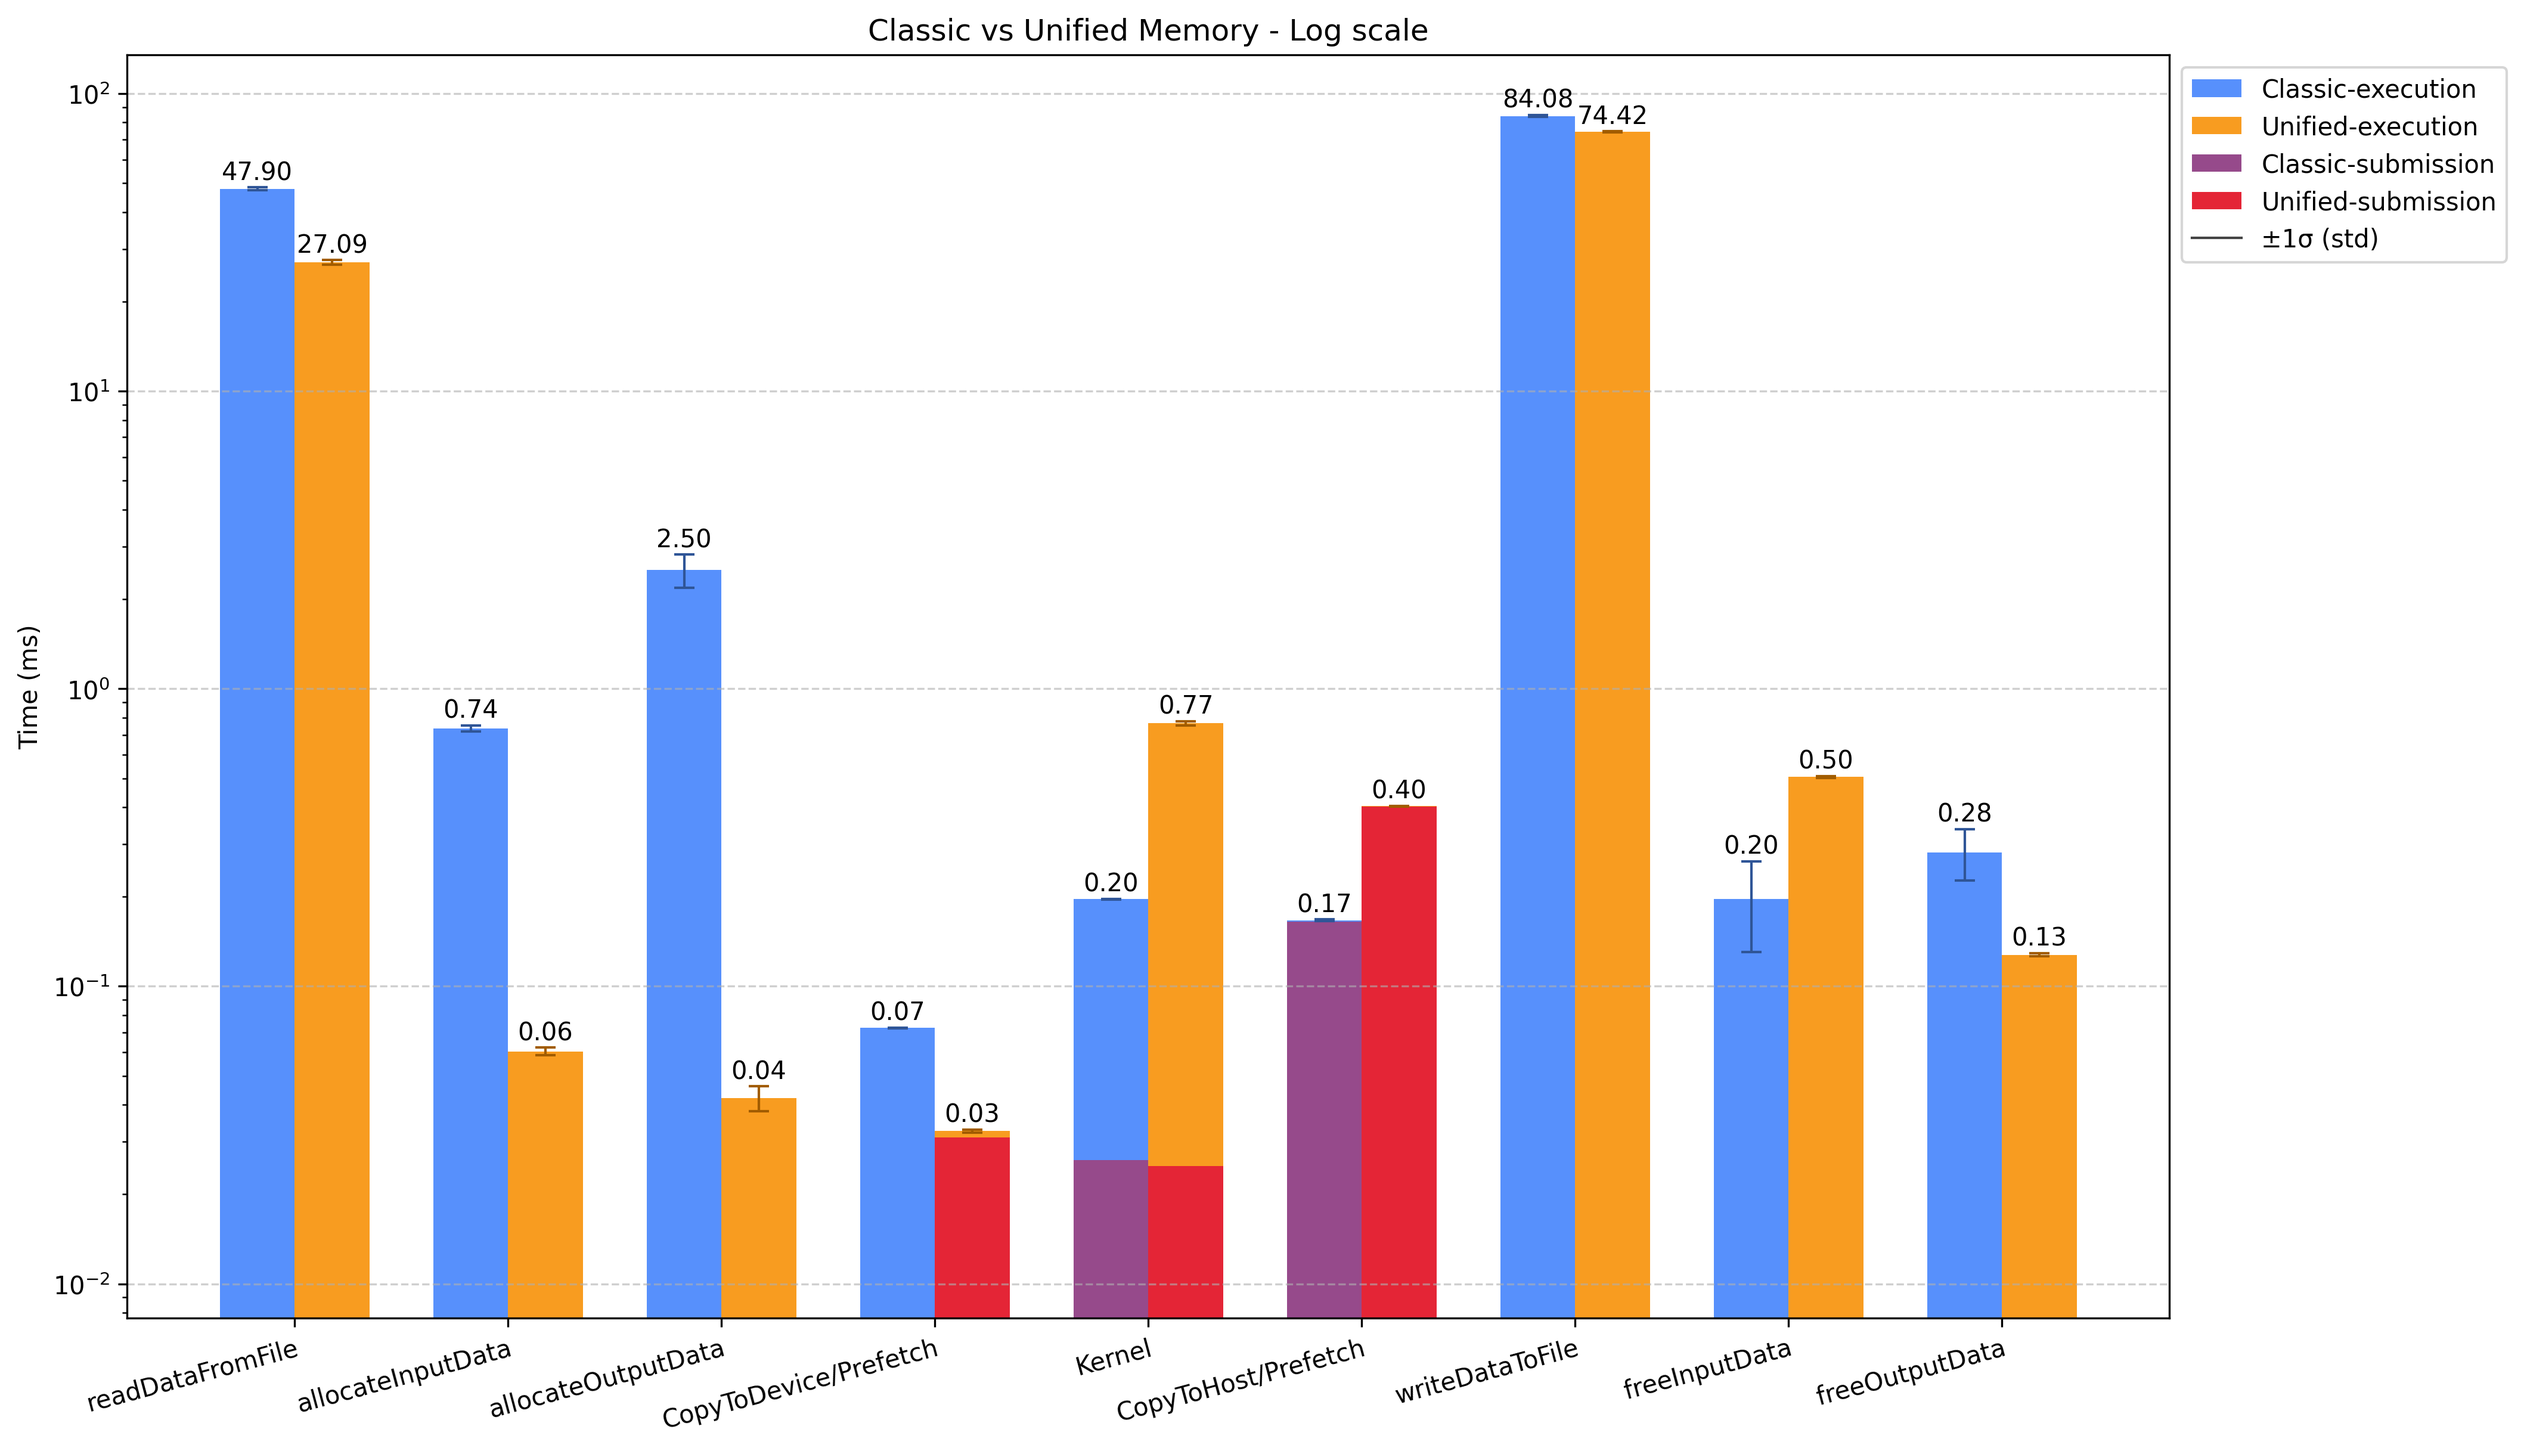
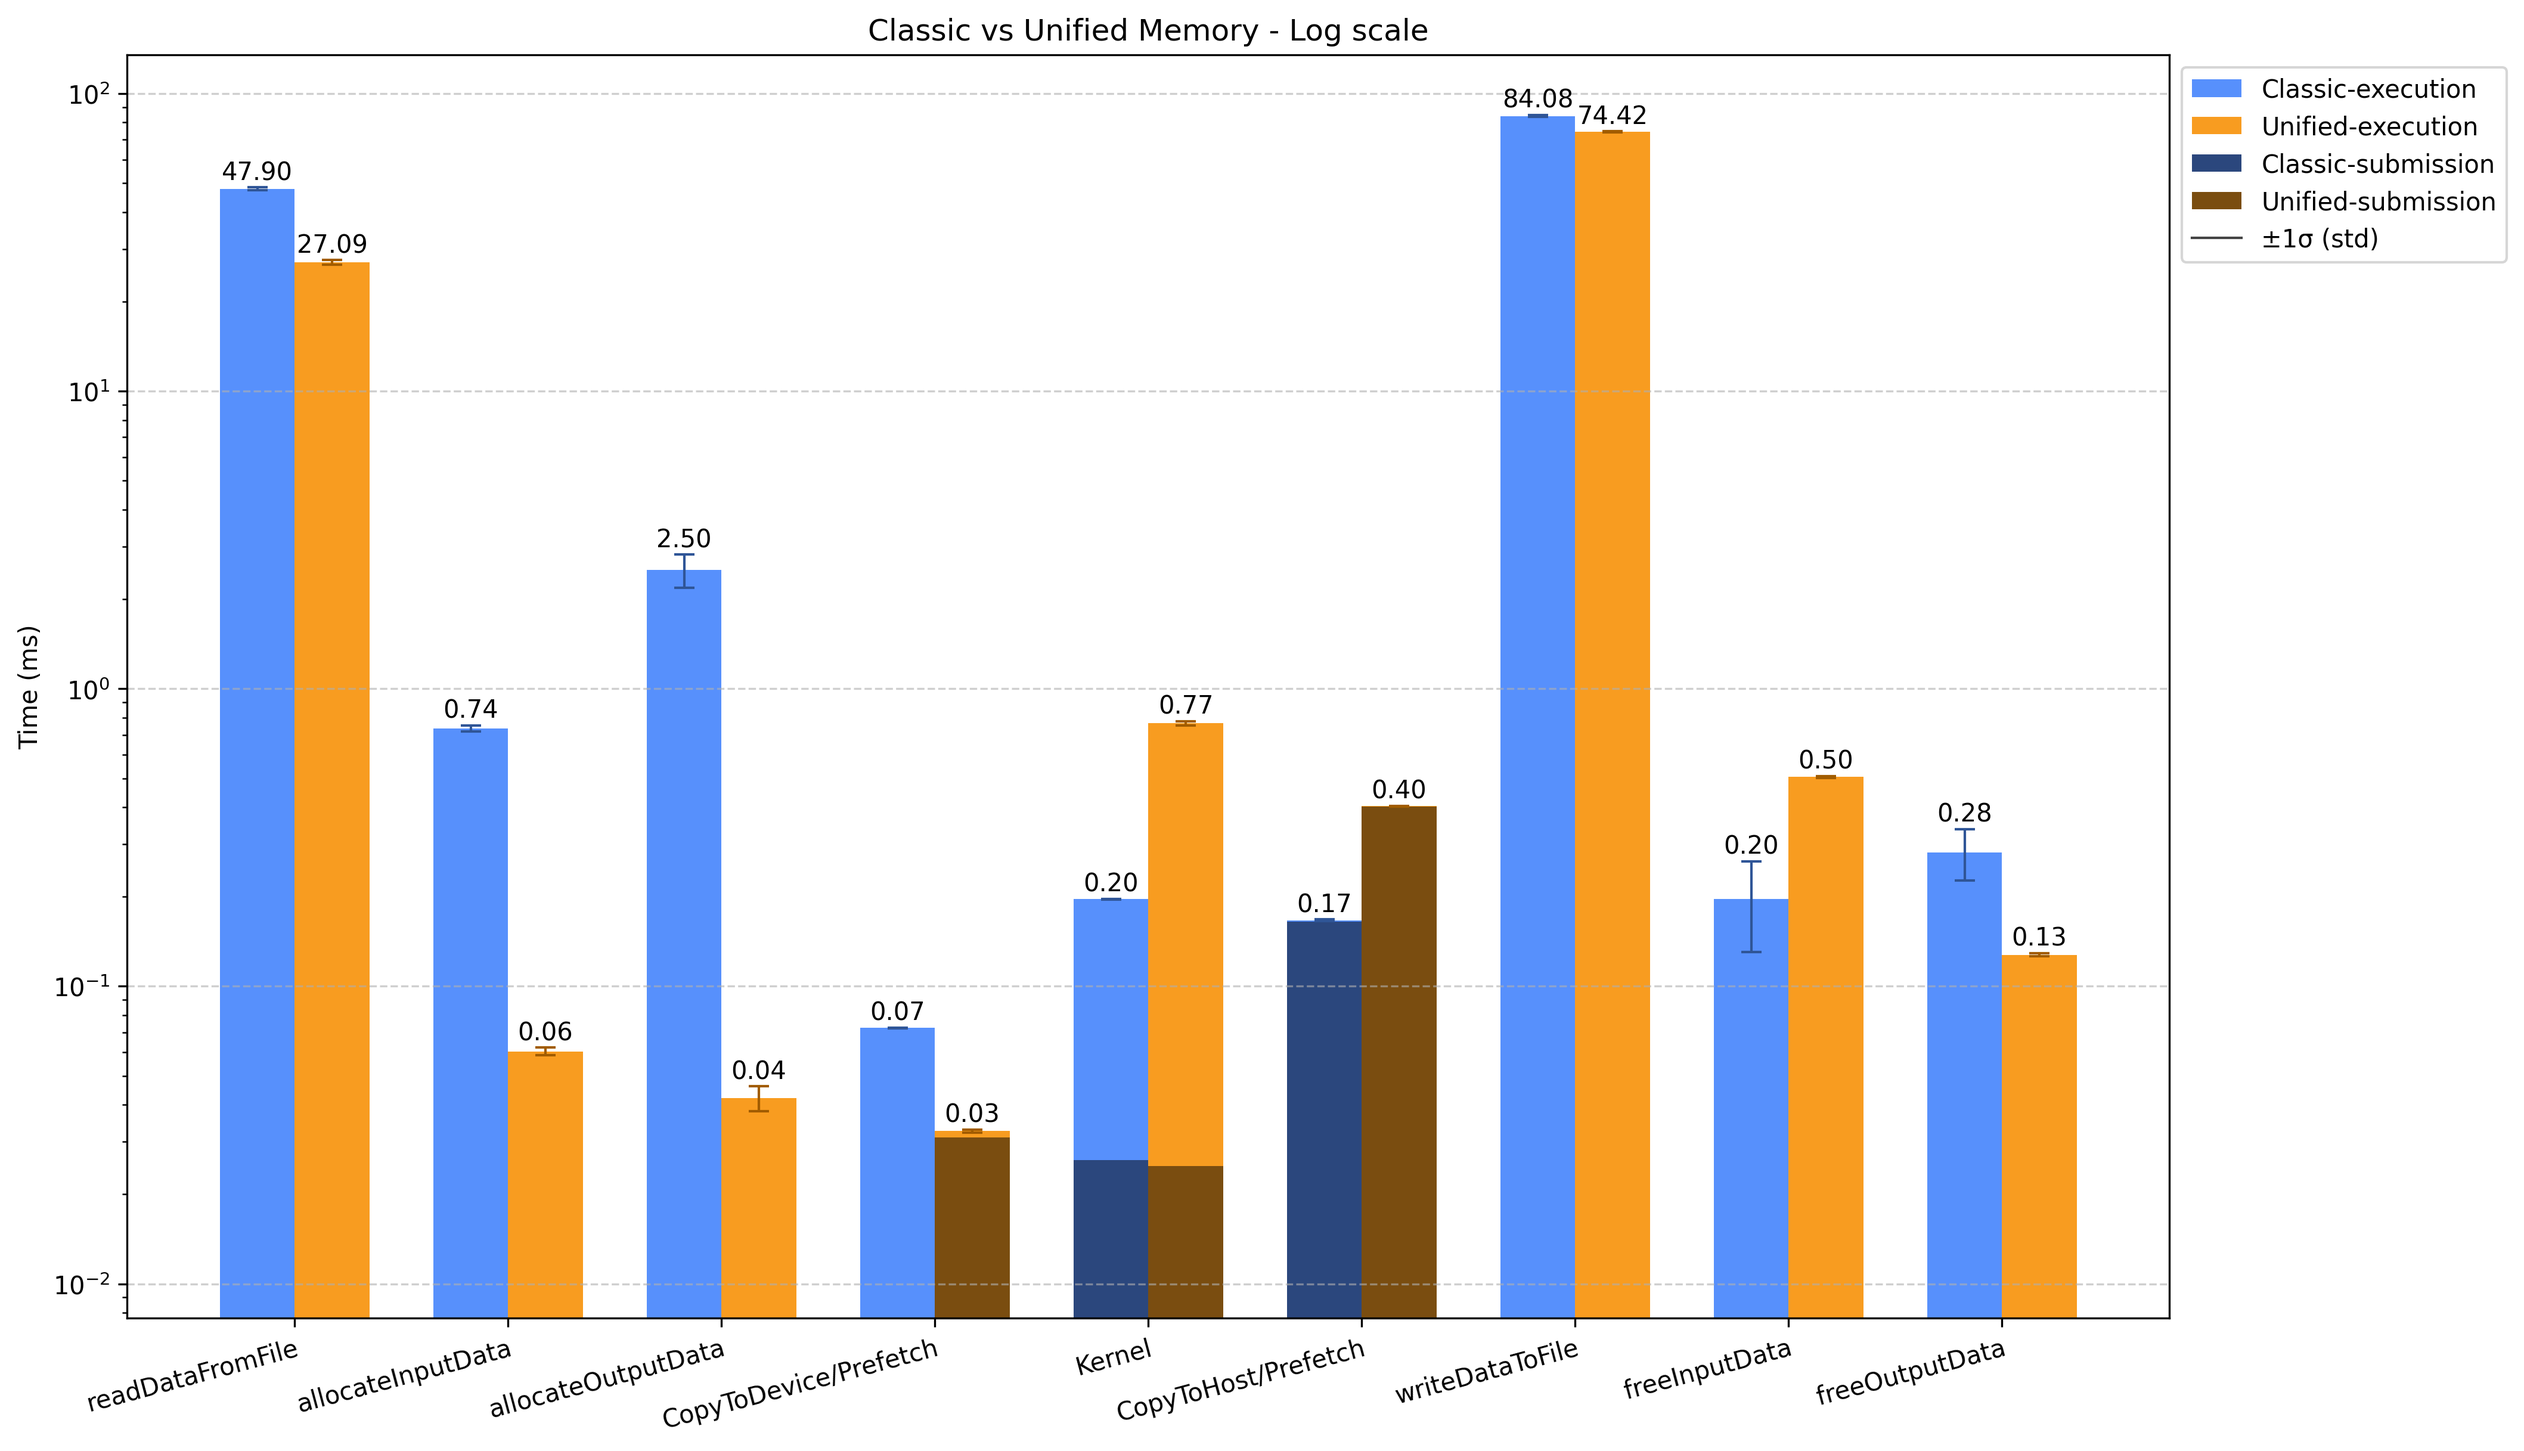
Added different colors in approval

Changed region(s): [[0.3429, 0.5308, 0.5923, 0.9055], [0.8729, 0.0937, 0.9041, 0.1561]]

diff --git a/Results/compare_timing.py b/Results/compare_timing.py
@@ -119,8 +119,8 @@ bar_width = 0.35
 plt.figure(figsize=(14, 8), constrained_layout=True)
 
 # Colors + legend labels (your palette)
-classic_exec = "#5790fc"; classic_sub  = "#964a8b"
-unified_exec = "#f89c20"; unified_sub  = "#e42536"
+classic_exec = "#5790fc"; classic_sub  = "#2b477d"
+unified_exec = "#f89c20"; unified_sub  = "#7a4d10"
 
 lbl_c_sub = "Classic-submission"
 lbl_c_exe = "Classic-execution"
@@ -297,8 +297,8 @@ bar_width = 0.35
 plt.figure(figsize=(14, 8), constrained_layout=True)
 
 # Colors + legend labels (your palette)
-classic_exec = "#5790fc"; classic_sub  = "#964a8b"
-unified_exec = "#f89c20"; unified_sub  = "#e42536"
+classic_exec = "#5790fc"; classic_sub  = "#2b477d"
+unified_exec = "#f89c20"; unified_sub  = "#7a4d10"
 
 lbl_c_sub = "Classic-submission"
 lbl_c_exe = "Classic-execution"
@@ -470,8 +470,8 @@ bar_width = 0.35
 plt.figure(figsize=(14, 8), constrained_layout=True)
 
 # Colors + legend labels (your palette)
-classic_exec = "#5790fc"; classic_sub  = "#964a8b"
-unified_exec = "#f89c20"; unified_sub  = "#e42536"
+classic_exec = "#5790fc"; classic_sub  = "#2b477d"
+unified_exec = "#f89c20"; unified_sub  = "#7a4d10"
 
 lbl_c_sub = "Classic-submission"
 lbl_c_exe = "Classic-execution"
